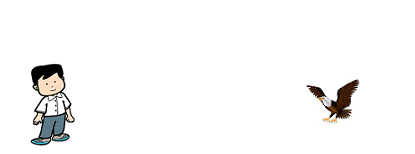
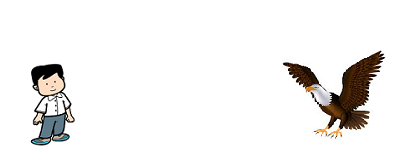
ref N warmups

Changed region(s): [[0.6651, 0.3117, 0.9253, 0.9091]]

diff --git a/modificationXrefUt/04_trials.js b/modificationXrefUt/04_trials.js
@@ -319,6 +319,12 @@ const warmup_trials = {
     text: "Your turn! Please label the pictures below.",
     question1: "This is a ",
     question3: "This is a "
+  },
+  ref: {
+    item: "dogs1",
+    picture1: "warmup/beagle_service.png",
+    picture2: "warmup/doberman_service.png",
+    question: " <br> These are service animals."
   }
 },
 dogs2: {
@@ -341,7 +347,13 @@ dogs2: {
   text: "Your turn! Please label the pictures below.",
   question1: "This is a ",
   question3: "This is a "
-  }
+},
+ref: {
+  item: "dogs2",
+  picture1: "warmup/pug_prize.png",
+  picture2: "warmup/great-dane_prize.png",
+  question:" <br>These are prize-winners."
+}
 },
 birds: {
   train: {
@@ -363,7 +375,13 @@ birds: {
   text: "Your turn! Please label the pictures below.",
   question1: "This is a ",
   question3: "This is an "
-  }
+},
+ref: {
+  item: "birds",
+  picture1: "warmup/hummingbird_rescue.png",
+  picture2: "warmup/eagle_rescue.png",
+  question: " <br> These are rescues."
+}
 },
 flowers: {
   train: {
@@ -385,7 +403,13 @@ flowers: {
   text: "Your turn! Please label the pictures below.",
   question1: "This is a ",
   question3: "This is a "
-  }
+},
+ref: {
+  item: "flowers",
+  picture1: "warmup/dandelion_gift.png",
+  picture2: "warmup/sunflower_gift.png",
+  question: " <br> These are gifts."
+}
 },
 // fish: {
 //   train: {
@@ -429,7 +453,13 @@ trees: {
   text: "Your turn! Please label the pictures below.",
   question1: "This is a ",
   question3: "This is a "
-  }
+},
+ref: {
+  item: "trees",
+  picture1: "warmup/redwood_landmark.png",
+  picture2: "warmup/tree_landmark.png",
+  question: " <br> These are landmarks."
+}
 }
 }
 
@@ -471,7 +501,7 @@ const trials = [
      text_insertion_warmup1: [
        // get the warmup trials corresponding to the main trials in the first main block
        trials[0].x,
-       trials[1].x,
+       trials[1].x
        // trials[2].x
     ],
     text_insertion_warmup2: [
@@ -479,7 +509,17 @@ const trials = [
       trials[2].x,
       trials[3].x
   //    trials[5].x
+    ],
+    ref_warmup1: [
+      trials[0].x,
+      trials[1].x
+    ],
+    ref_warmup2: [
+      trials[2].x,
+      trials[3].x
     ]
+
+
   };
 
 console.log("Unshuffled trial order:", trial_info.text_insertion_main1)

diff --git a/modificationXrefUt/03_custom_views_templates.js b/modificationXrefUt/03_custom_views_templates.js
@@ -245,6 +245,62 @@ const custom_comp_class_warmup = function(config, startingTime) {
 return view;
 };
 
+const custom_ref_warmup = function(config, startingTime) {
+  const view = {
+    name: config.name,
+    CT: 0,
+    trials: config.trials,
+    render: function(CT, magpie, startingTime) {
+      $("main").html(`<div class='magpie-view'>
+      <h1 class='magpie-view-title'>Warm-up trials</h1>
+
+
+    <div style="width:100%;height:300px;">
+     <div style="width:50%;height:100%;float:left;position:relative;align:center;">
+        <div style="position:absolute;bottom:0;right:40px;">
+          <div class="picture"  align="center" >
+            <img src="${config.data[CT].ref.picture1}">
+          </div>
+
+        </div>
+    </div>
+    <div style="width:50%;height:100%;float:right; position:relative;align:center;">
+      <div style="position:absolute;bottom:0;left:40px;">
+          <div  class="picture" align="center" >
+            <img src="${config.data[CT].ref.picture2}">
+          </div>
+
+      </div>
+      </div>
+
+
+    </div>
+
+
+    <div class='magpie-view-text-container' >
+
+      <p id='1' class='magpie-view-question' >${config.data[CT].ref.question} </p>
+
+    </div>
+
+
+
+    <div  class='magpie-view-answer-container'>
+      <p class = 'correct-answer4 magpie-nodisplay'>Please enter the correct labels to proceed</p>
+    </div>
+          <button id='next' class='magpie-view-button '>next</button>
+    </div>  `);
+
+      $('#next').hide().delay(3500).show(0);
+
+      $("#next").on("click", function(){
+        magpie.findNextView();
+      })
+    }
+  }
+  return view;
+}
+
 
 // labelling warm-up trials warm-up views
 const custom_textfield_warmup = function(config, startingTime) {

diff --git a/modificationXrefUt/05_views.js b/modificationXrefUt/05_views.js
@@ -87,6 +87,20 @@ const warmup2 = custom_textfield_warmup({
   data: trial_info.text_insertion_warmup2,
 });
 
+// referential noun warm-ups
+const ref1 = custom_ref_warmup({
+  name: "ref1",
+  title: "Warm-up trial",
+  trials: 2,
+  data: _.shuffle(trial_info.ref_warmup1)
+})
+
+const ref2 = custom_ref_warmup({
+  name: "ref2",
+  title: "Warm-up trial",
+  trials: 2,
+  data: _.shuffle(trial_info.ref_warmup2)
+})
 
 // speaker and listeneers names to be sampled from for the botcaptcha
 var speaker = _.sample(["James", "John", "Robert", "Michael", "William", "David", "Richard", "Joseph", "Thomas", "Charles"]);

diff --git a/modificationXrefUt/06_main.js b/modificationXrefUt/06_main.js
@@ -19,10 +19,12 @@ $("document").ready(function() {
             botcaptcha,
             instructions,
             comp_class_warmup,
+            ref1,
             warmup1,
             context1,
             custom_main_text1,
             context2,
+            ref2,
             warmup2,
             custom_main_text2,
             custom_post_test,

diff --git a/modificationXrefUt/01_custom_styles.css b/modificationXrefUt/01_custom_styles.css
@@ -16,3 +16,7 @@
 .custom-border {
    border: 1px solid powderblue;
 }
+
+.magpie-view-answer-container1 {
+  padding-top: 100px;
+}
